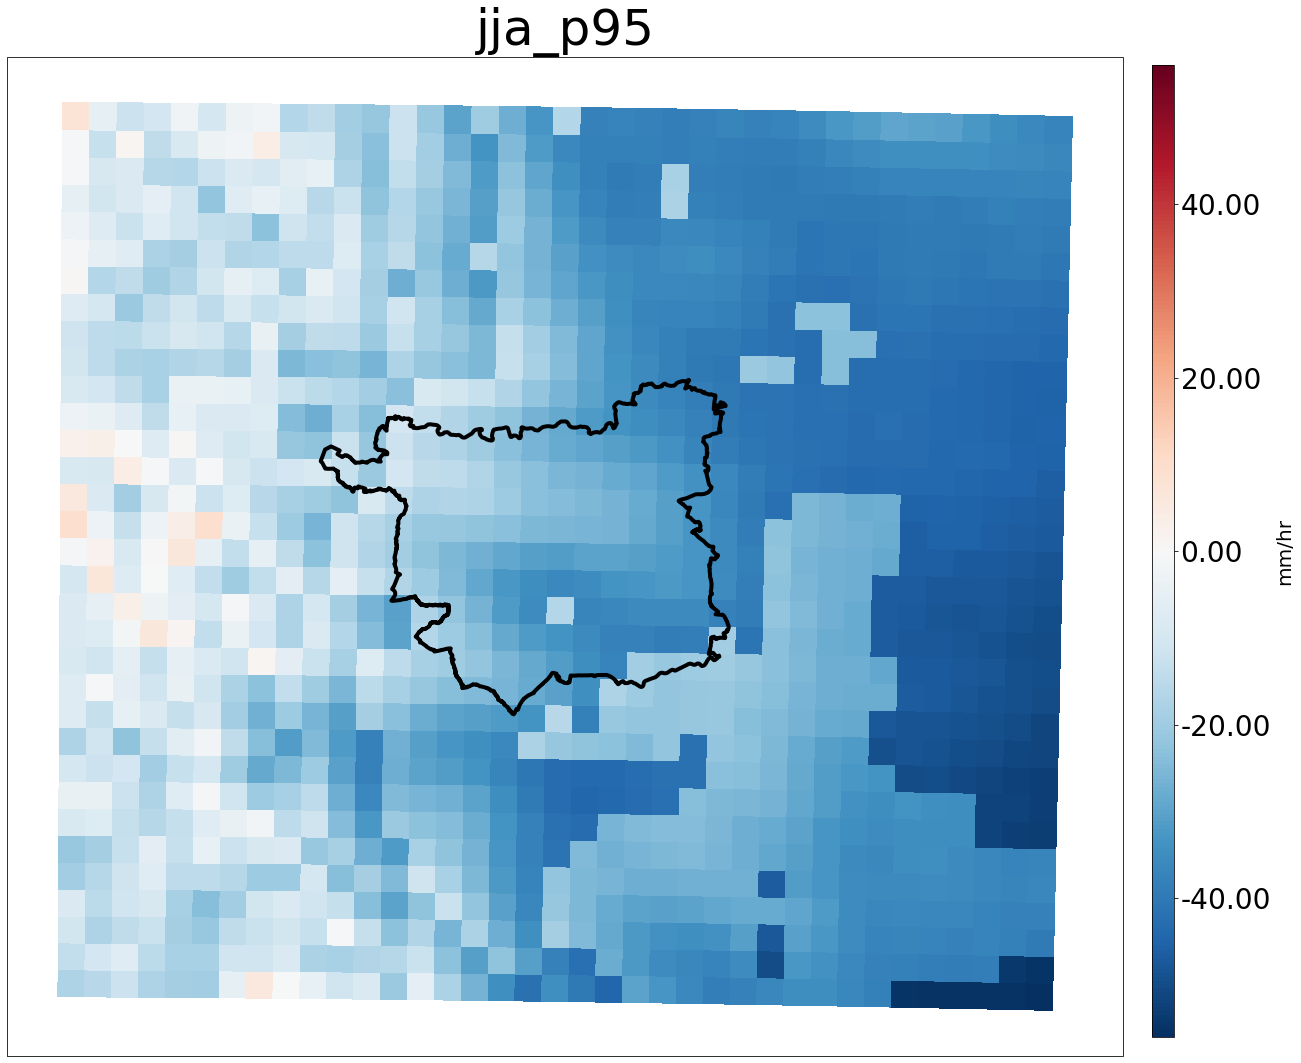
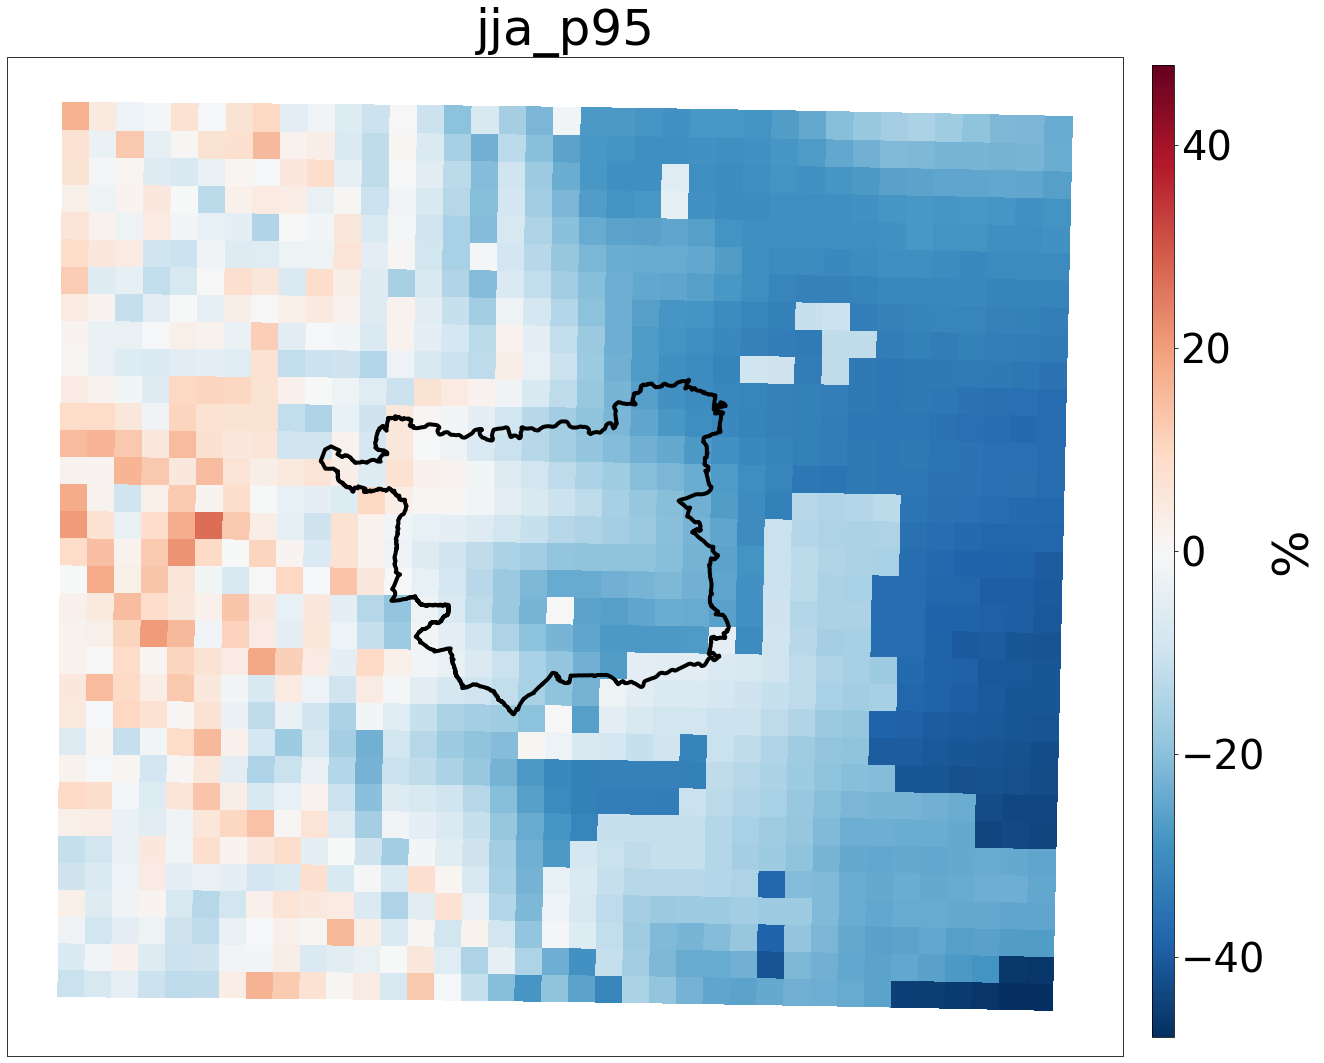
.

diff --git a/RegionalRainfallStats/Difference_ModelVsObs/Plot_RegionalStats.py b/RegionalRainfallStats/Difference_ModelVsObs/Plot_RegionalStats.py
@@ -98,36 +98,7 @@ defined_gauges = reproject_wm (defined_gauges)
 ##################################################################
 # Trimming to region
 ##################################################################
-for stat in stats:
-    print(stat)
-    
-    # Load in netcdf files containing the stats data over the whole UK
-    model_cube = iris.load('/nfs/a319/gy17m2a/Outputs/RegionalRainfallStats/NetCDFs/Model/Allhours/EM_Summaries/{}_EM_mean.nc'.format(stat))[0]
-    obs_cube= iris.load('/nfs/a319/gy17m2a/Outputs/RegionalRainfallStats/NetCDFs/RegriddedObservations/NearestNeighbour/{}.nc'.format(stat))[0][0]
 
-    # Remove coordinates present in model cube, but not in observations
-    model_cube.remove_coord('latitude')
-    model_cube.remove_coord('longitude')    
-    
-    # Find the difference between the two
-    diff_cube = model_cube-obs_cube
-    
-    # Find the percentage difference
-    diff_cube = (diff_cube/obs_cube) * 100
-    
-    # Find absoloute difference    
-    #diff_cube = iris.analysis.maths.abs(diff_cube)
-
-    # Trim to smaller area
-    if region == 'Northern':
-         diff_cube = trim_to_bbox_of_region_regriddedobs(diff_cube, northern_gdf)
-    elif region == 'leeds-at-centre':
-         diff_cube = trim_to_bbox_of_region_regriddedobs(diff_cube, leeds_at_centre_gdf)
-
-    # Find min and max vlues in data and set up contour levels
-    local_min = np.nanmin(diff_cube.data)
-    local_max = np.nanmax(diff_cube.data)  
-    
     if abs(local_min) > abs(local_max):
         local_max = abs(local_min)
     elif abs(local_max) > abs(local_min):
@@ -189,20 +160,20 @@ for stat in stats:
          colorbar_axes = plt.gcf().add_axes([0.76, 0.15, 0.015, 0.7])
 
     colorbar = plt.colorbar(mesh, colorbar_axes, orientation='vertical')  
-    colorbar.set_label('mm/hr', size = 20)
-    colorbar.ax.tick_params(labelsize=28)
+    colorbar.set_label('%', size = 30)
+    colorbar.ax.tick_params(labelsize=40)
     colorbar.ax.set_yticklabels(["{:.{}f}".format(i, 2) for i in colorbar.get_ticks()])    
     
     # Add gauges
-    for lat, lon in zip(lats, lons):
-            this_point = Point(lon, lat)
-            res_in_leeds = this_point.within(leeds_at_centre_poly)
-            # If the point is within leeds-at-centre geometry 
-            if res_in_leeds ==True :
-                lon_wm,lat_wm = transform(Proj(init = 'epsg:4326') , Proj(init = 'epsg:3857') , lon, lat)
-                plt.plot(lon_wm, lat_wm,   'o', color='black', markersize = 20) 
-    plt.plot(mo_gauges['Long_wm'], mo_gauges['Lat_wm'], 'o', color='red', markersize =20)
-    plt.plot(defined_gauges['Long_wm'], defined_gauges['Lat_wm'], 'o', color='yellow', markersize =20)
+    # for lat, lon in zip(lats, lons):
+    #         this_point = Point(lon, lat)
+    #         res_in_leeds = this_point.within(leeds_at_centre_poly)
+    #         # If the point is within leeds-at-centre geometry 
+    #         if res_in_leeds ==True :
+    #             lon_wm,lat_wm = transform(Proj(init = 'epsg:4326') , Proj(init = 'epsg:3857') , lon, lat)
+    #             plt.plot(lon_wm, lat_wm,   'o', color='black', markersize = 20) 
+    # plt.plot(mo_gauges['Long_wm'], mo_gauges['Lat_wm'], 'o', color='red', markersize =20)
+    # plt.plot(defined_gauges['Long_wm'], defined_gauges['Lat_wm'], 'o', color='yellow', markersize =20)
     
     # Set plot title
     ax.set_title(stat, fontsize = 50)
